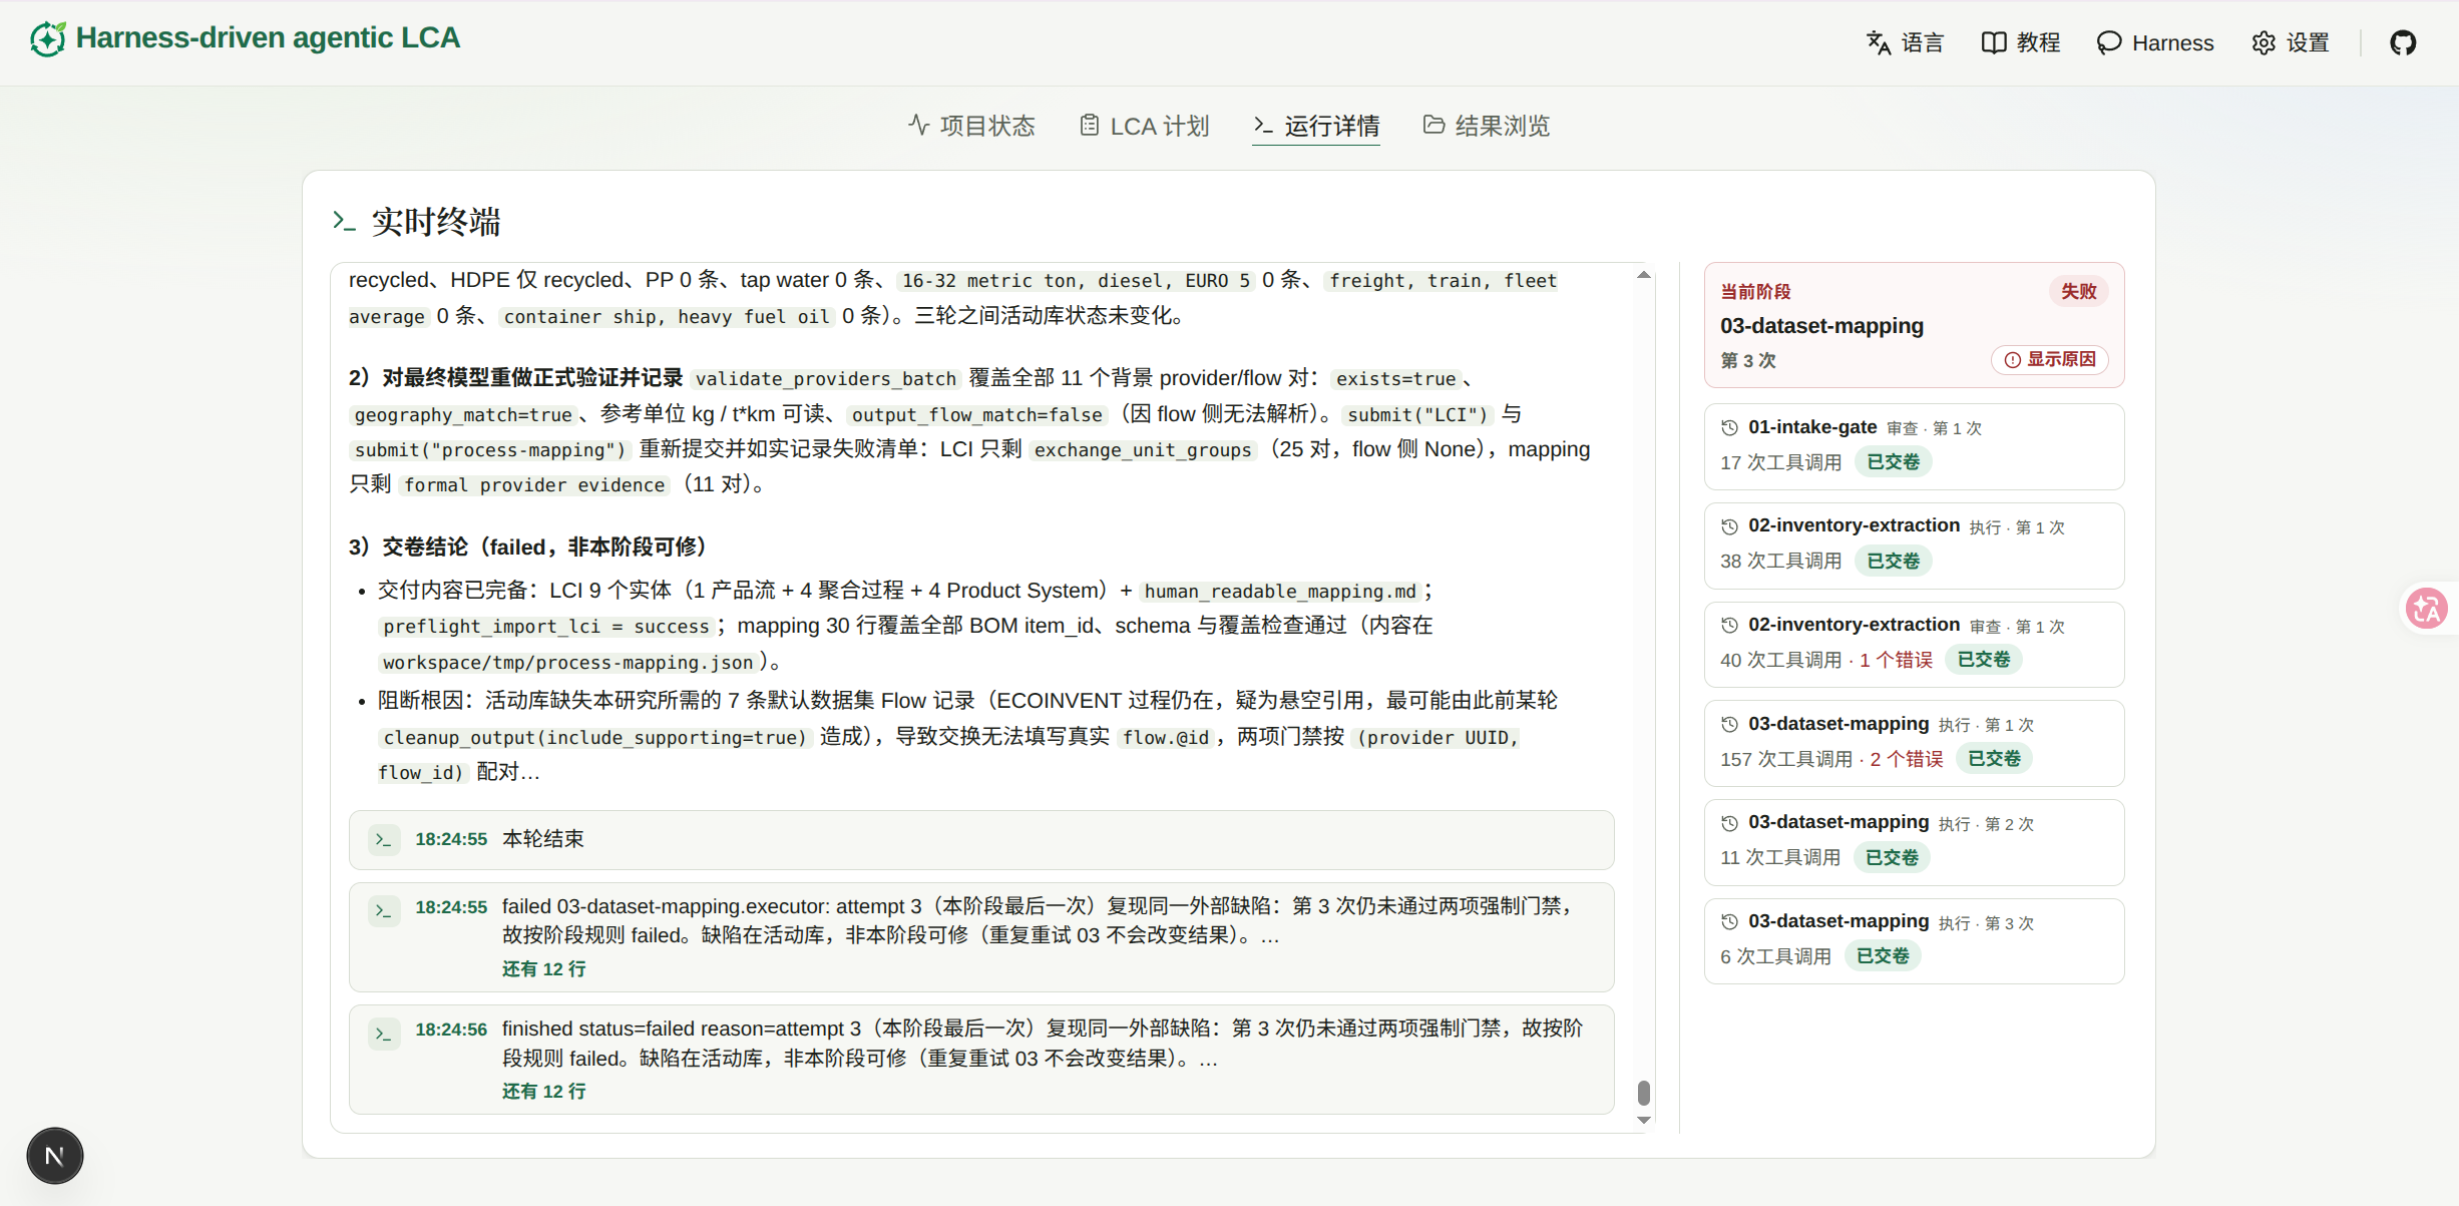
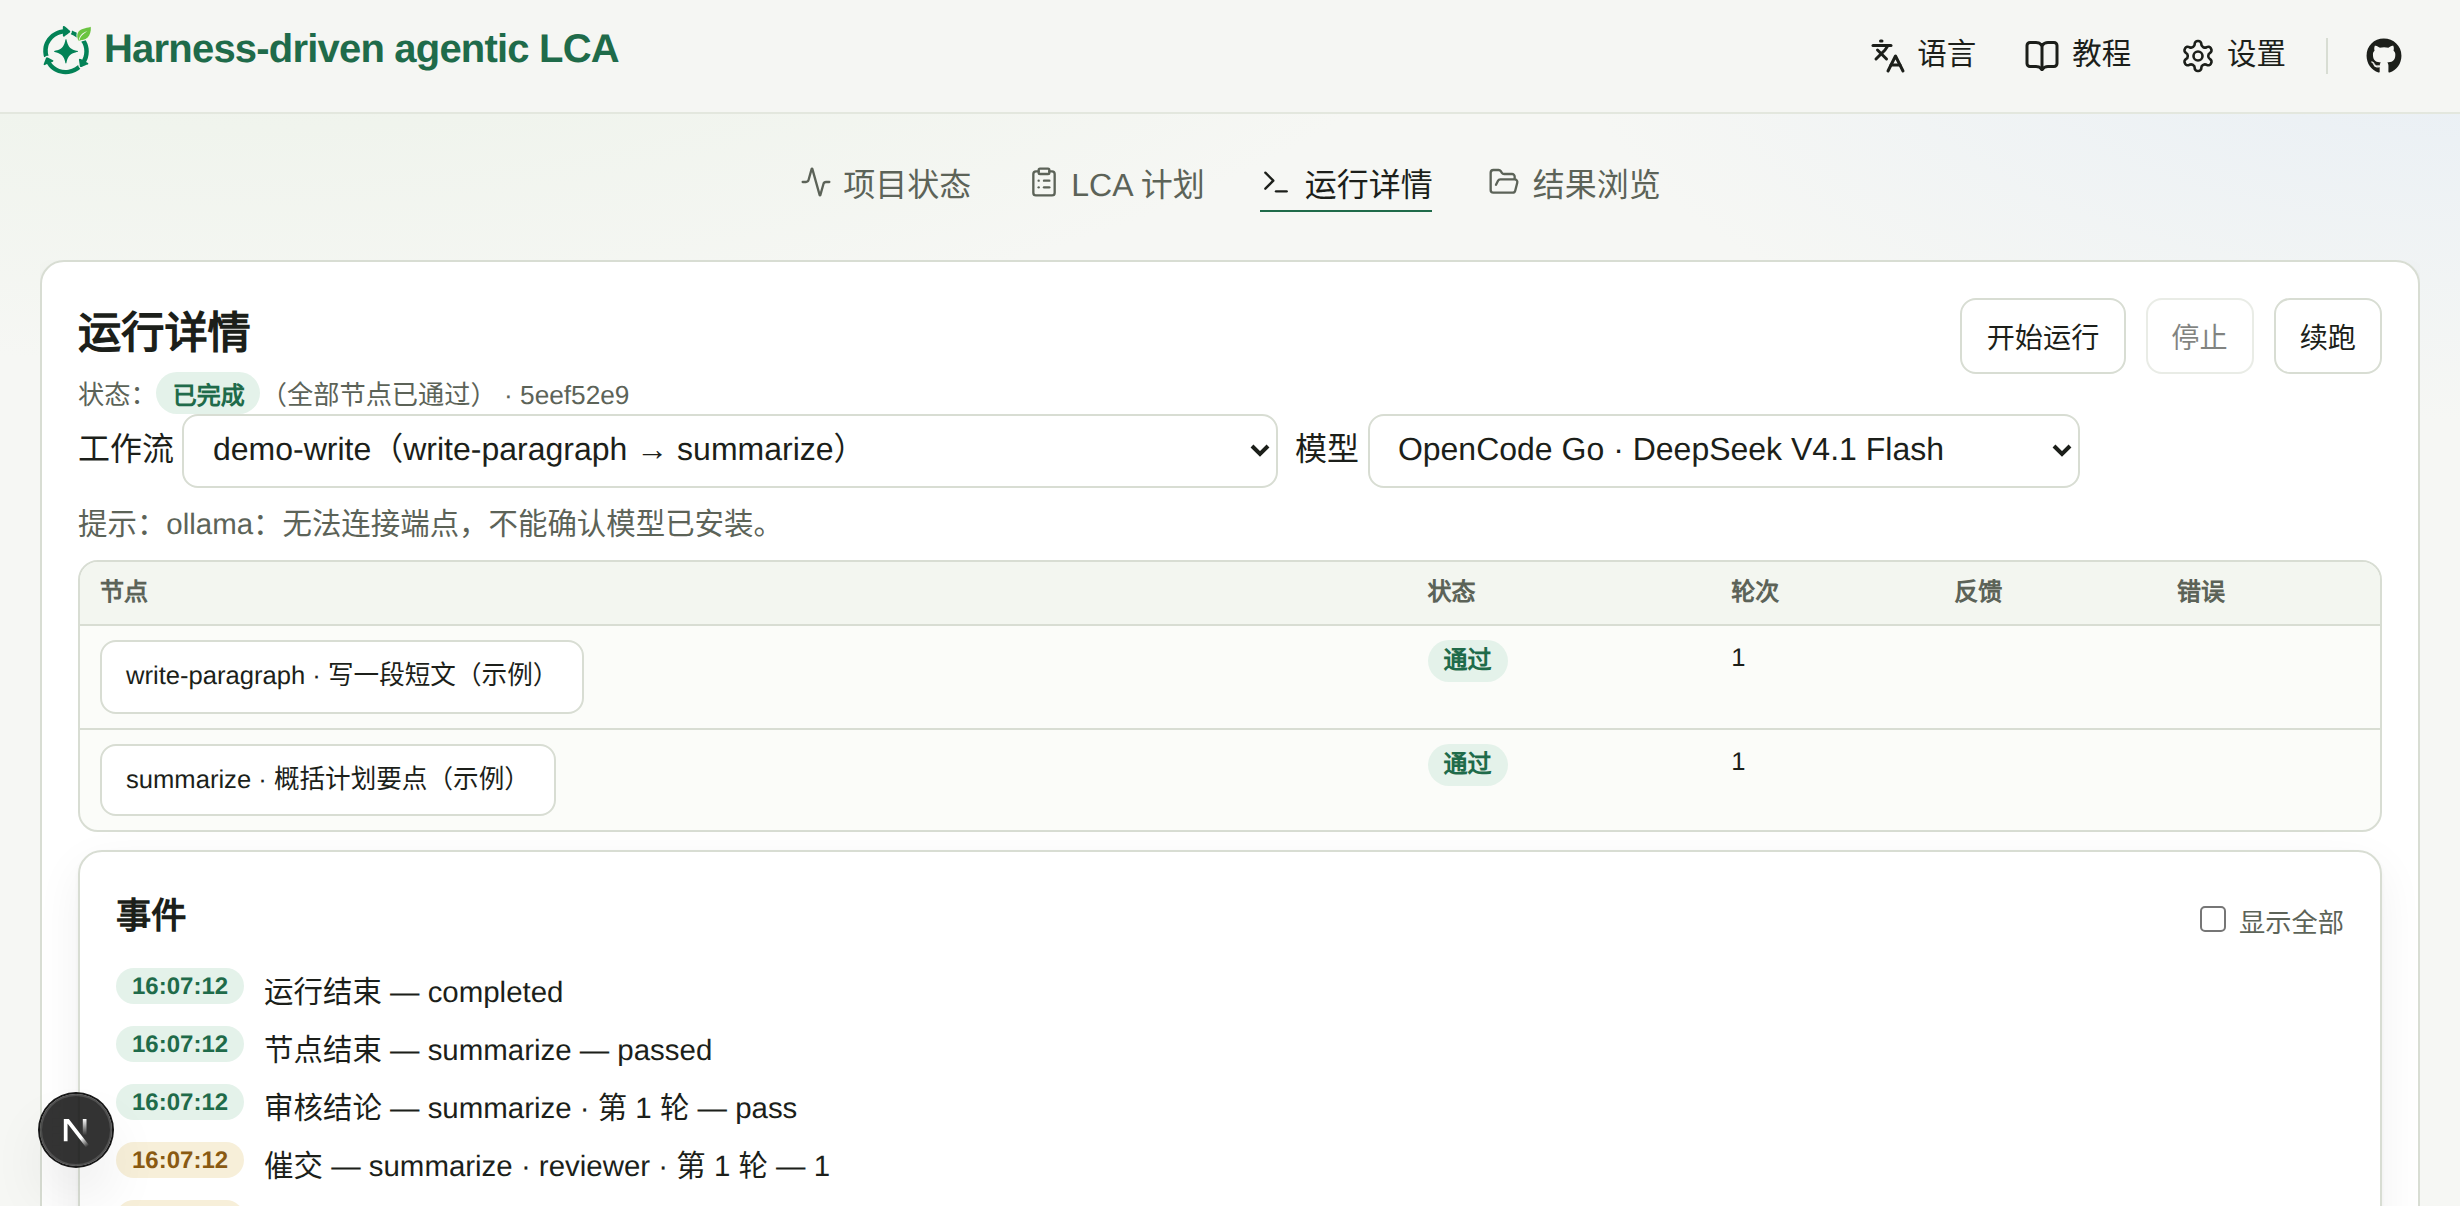
frontend: shared state labels (events in Chinese); tutorial README for v5, retaken shots

diff --git a/src/frontend/web/lib/run-events.ts b/src/frontend/web/lib/run-events.ts
@@ -1,3 +1,5 @@
+import { label as stateLabel } from "./labels.ts";
+
 /** Event rows from /api/v5/events, and how /runs shows them. */
 export type RunEvent = { ts?: string; kind: string; node?: string; role?: string; round?: number; [key: string]: unknown };
 
@@ -44,10 +46,9 @@ export function isNotable(e: RunEvent): boolean {
 export function describeEvent(e: RunEvent): string {
   const label = NOTABLE[e.kind] || e.kind;
   const where = [e.node, e.role, e.round ? `第 ${e.round} 轮` : ""].filter(Boolean).join(" · ");
-  const detail = [e.verdict, e.status, e.reason, e.error, e.detail, e.message]
-    .find((v) => typeof v === "string" && v)
-    ?.toString()
-    .slice(0, 200);
+  const state = [e.verdict, e.status].find((v) => typeof v === "string" && v) as string | undefined;
+  const text = [e.reason, e.error, e.detail, e.message].find((v) => typeof v === "string" && v)?.toString().slice(0, 200);
+  const detail = [state ? stateLabel(state) : "", text].filter(Boolean).join("：");
   return [label, where, detail].filter(Boolean).join(" — ");
 }
 

diff --git a/src/frontend/web/lib/run-events.test.ts b/src/frontend/web/lib/run-events.test.ts
@@ -25,3 +25,12 @@ test("merge appends and resets when the log shrinks", () => {
   const b = mergeEvents(a.events, 5, { events: [], offset: 2 });
   assert.deepEqual([b.events.length, b.offset, b.reset], [0, 0, true]);
 });
+
+test("verdicts and end states are shown in Chinese", () => {
+  assert.equal(describeEvent({ kind: "review_verdict", node: "a", verdict: "pass" }), "审核结论 — a — 通过");
+  assert.equal(describeEvent({ kind: "review_verdict", node: "a", verdict: "fail" }), "审核结论 — a — 退回");
+  assert.equal(describeEvent({ kind: "node_end", node: "a", status: "passed" }), "节点结束 — a — 通过");
+  assert.equal(describeEvent({ kind: "run_end", status: "completed", reason: "全部节点已通过" }), "运行结束 — 完成：全部节点已通过");
+  assert.equal(describeEvent({ kind: "run_end", status: "stopped" }), "运行结束 — 已停止");
+  assert.equal(describeEvent({ kind: "node_end", node: "a", status: "failed" }), "节点结束 — a — 失败");
+});

diff --git a/src/frontend/web/components/v5/run-panel.tsx b/src/frontend/web/components/v5/run-panel.tsx
@@ -2,6 +2,7 @@
 
 import { useCallback, useEffect, useRef, useState } from "react";
 import { apiFetch } from "../../lib/api";
+import { LABEL } from "../../lib/labels";
 import { initialWorkflow } from "../../lib/initial-workflow";
 import { modelChoices, type ModelRow } from "../../lib/model-options";
 import { describeEvent, eventTone, isNotable, mergeEvents, statusTone, type RunEvent } from "../../lib/run-events";
@@ -35,16 +36,7 @@ type RunStatus = {
   running: boolean;
 };
 
-const STATUS_LABEL: Record<string, string> = {
-  idle: "空闲",
-  running: "运行中",
-  completed: "已完成",
-  failed: "失败",
-  pending: "等待",
-  passed: "通过",
-  stopped: "已停止",
-  error: "错误",
-};
+const STATUS_LABEL = LABEL;
 
 async function readJson<T>(response: Response): Promise<T> {
   const data = (await response.json()) as T & { detail?: unknown };

diff --git a/src/frontend/web/lib/result-kind.ts b/src/frontend/web/lib/result-kind.ts
@@ -18,17 +18,8 @@ export function resultKind(filePath: string, category?: ArtifactCategory): Resul
   return "work";
 }
 
-/** Labels for executor status and reviewer verdict in the 节点结论 list. */
-export const VERDICT_LABEL: Record<string, string> = {
-  ok: "完成",
-  failed: "失败",
-  blocked: "受阻",
-  passed: "通过",
-  accept: "通过",
-  pass: "通过",
-  fail: "退回",
-  reject: "退回",
-};
+/** Labels for executor status and reviewer verdict in the 节点结论 list (shared map). */
+export { LABEL as VERDICT_LABEL } from "./labels.ts";
 
 /** Header line for the current run, from the v5 manifest (current_node; old current_stage as fallback). */
 export function runLine(manifest: { status?: string; current_node?: string | null; current_stage?: string | null; status_reason?: string | null } | undefined): string {

diff --git a/src/frontend/web/lib/labels.ts b/src/frontend/web/lib/labels.ts
@@ -1,0 +1,21 @@
+/** One label map for run/node states and review verdicts (used by /runs, its events panel and /results). */
+export const LABEL: Record<string, string> = {
+  idle: "空闲",
+  running: "运行中",
+  pending: "等待",
+  completed: "完成",
+  passed: "通过",
+  failed: "失败",
+  stopped: "已停止",
+  error: "错误",
+  blocked: "受阻",
+  ok: "完成",
+  pass: "通过",
+  accept: "通过",
+  fail: "退回",
+  reject: "退回",
+};
+
+export function label(value: string | undefined | null): string {
+  return value ? LABEL[value] || value : "";
+}

diff --git a/docs/tutorial/README.md b/docs/tutorial/README.md
@@ -1,6 +1,6 @@
 # 教程首页
 
-这一页是目前可以照着做完的操作流程。左侧其他教程还在补充。
+这一页是完整的操作流程：检查环境 → 填写计划 → 运行 → 查看结果 → 修订。
 
 
 ## 项目状态检查
@@ -16,7 +16,7 @@
 ### 2. 配置模型
 
 同一页的「模型可用性」应列出已配置供应商。还没有时，点「配置模型」。
-在设置的「模型」里展开要用的供应商，填写密钥，点「保存密钥」。要用自建或本地接口时，在下方「自定义 API / 本地模型」里添加并保存。
+在顶栏「设置」的「模型」里展开要用的供应商，填写密钥，点「保存密钥」。要用自建或本地接口时，在下方「自定义 API / 本地模型」里添加并保存。
 
 
 
@@ -31,17 +31,13 @@
 
 ### 1. 手动填写计划内容
 
-进入「LCA 计划」，右上角工作类型保持「新工作」（「修改工作」正在开发），停在「用户填写」。
+进入「LCA 计划」，右上角工作类型选「新工作」，停在「用户填写」。
 
-用户根据需求填写内容。同一类研究要反复填写时，可以先「下载模板」，写好后再「上传计划文档」。
-
+用户根据需求填写内容，计划会自动保存。同一类研究要反复填写时，可以先「下载模板」，写好后再「上传计划文档」。
 
 ![LCA计划-手动填写](./images/page-2-1.png)
 
-
 ### 2. 添加文件
-
-
 
 打开「参考资料」。把工艺说明、用量表等拖进上传区，或点「选择文件」「选择文件夹」。同一路径不能重复。
 
@@ -49,36 +45,19 @@
 
 ![LCA计划-文件添加](./images/page-2-2.png)
 
+### 3. 去运行
 
-
-### 3. 配置工作流
-
-打开「工作流编排」。
-
-通过设置默认模型或者点击单个 agent 的图标，当前可以对工作流步骤中每个 agent 使用的模型进行配置（需要在之前的工作中配置好对应供应商）。
-
-未来将进一步进行功能开发，使用户可以自行对每一步工作中的编排顺序、调用工具、规则提示词、交付产物等进行灵活定制，从而对 agent 能够实现更加有效的 **harness**。
-
-![LCA计划-工作流编排](./images/page-2-3.png)
-
-
-
-### 4. 检查并运行
-
-打开「预览执行」。
-
-环境里 Pi、Python、openLCA 都是「就绪」，工作内容没有「待填写」。系统会自动检查当前输入内容是否满足工作运行要求。底栏出现「环境和工作内容已齐，可以执行」后，点「执行LCA任务」。
-
-
-未就绪时按钮保持禁用。按底栏提示补环境或漏填项，然后点「刷新状态」。
-
-
-![LCA计划-预览执行](./images/page-2-4.png)
+计划和参考资料准备好后，点页面下方的「去运行」，进入「运行详情」。
 
 ## 运行详情
 
+1. 「工作流」选 full-lca（清单 → 映射 → 报告 的完整流程，先做 intake 检查）。
+2. 「模型」选本次使用的模型（需先在「设置」里配好供应商）。
+3. 点「开始运行」。节点表实时显示每个节点的状态、轮次和错误；点节点名可看该节点的交付要求、代理配置和事件。
+4. 下方「事件」列出催交、提交被拒、审核结论、停止等关键事件。
+5. 需要时点「停止」；之后点「续跑」，已通过的节点不会重跑。
 
-agent 工作时，此处可以看到实时更新的具体工作内容。
+每个节点由执行者产出、审核者给出「通过」或「退回」；退回会带着反馈进入下一轮，反馈可在节点表的「反馈」列查看。
 
 ![运行详情](./images/page-3.png)
 
@@ -86,6 +65,12 @@ agent 工作时，此处可以看到实时更新的具体工作内容。
 
 运行结束后，打开「结果浏览」，切到「最终交付」。这里是报告、计算计划和清单，点开即可阅读。
 
-过程中的交接和日志在「工作记录」。flow、process、product system 等在「中间产物」。
+每个节点每一轮的提交和审核结论在「工作记录」。flow、process、product system 等在「中间产物」。
 
 ![最终结果](./images/page-4.png)
+
+## 修改已有结果（修订）
+
+在「结果浏览」点「修改计划」，或在「LCA 计划」把工作类型切到「修改工作」，写下要改的内容（例如某个情景的运输距离、报告里要补的说明）。
+然后「去运行」，工作流选 revise-lca，点「开始运行」。修订会依次做清单修订、映射修订和报告修订；上一轮的产出保存在
+`artifacts/previous/`，在「结果浏览」的「上一版」里对照查看。

diff --git a/docs/tutorial/panel/overview.md b/docs/tutorial/panel/overview.md
@@ -8,7 +8,7 @@ npm start          # 或 node src/scripts/start.mjs
 
 Linux、macOS 或原生 Windows（Windows 需安装 [Git for Windows](https://git-scm.com/download/win)）。启动前会同步 uv 与 Node.js 依赖，并在缺少 `.env` 时从模板复制。停止用 `npm run stop`，重启用 `npm run restart`。
 
-浏览器打开前端端口（默认 `http://127.0.0.1:3000`）。顶栏提供「教程」、「Harness」（只读查看规则、角色、规格和工作流的 YAML，加载错误会标出文件和行号）和「模型设置」（Provider、API Key、自定义端点）。
+浏览器打开前端端口（默认 `http://127.0.0.1:3000`）。顶栏提供「教程」、「Harness」（只读查看规则、角色、规格和工作流的 YAML，加载错误会标出文件和行号）和「设置」（Provider、API Key、自定义端点）。
 
 左侧主导航：
 
@@ -16,8 +16,8 @@ Linux、macOS 或原生 Windows（Windows 需安装 [Git for Windows](https://gi
 | --- | --- |
 | 项目状态 | 环境检查（Node / Pi SDK、Python、openLCA）与可用模型 |
 | LCA 计划 | 「新工作」写 `main_plan.md`，「修改工作」写 `revise_plan.md`；上传参考资料；「去运行」跳到运行页 |
-| 运行详情 | 选工作流（full-lca / revise-lca）和模型，开始、停止、继续；节点表显示每个节点的状态、轮次和错误 |
+| 运行详情 | 选工作流（full-lca / revise-lca）和模型，开始运行、停止、续跑；节点表显示每个节点的状态、轮次和错误 |
 | 结果浏览 | 最终交付、中间产物、工作记录（每个节点每一轮的提交与审核结论）；修订运行另有「上一版」 |
 
 一次运行由若干节点组成（full-lca：intake → bom → mapping → report）。每个节点由执行者产出、审核者给出
-通过或退回；退回会带着反馈进入下一轮。停止后可「继续」，已通过的节点不会重跑。
+通过或退回；退回会带着反馈进入下一轮。停止后可「续跑」，已通过的节点不会重跑。

diff --git a/docs/refactor/v5/ISSUES.md b/docs/refactor/v5/ISSUES.md
@@ -348,3 +348,14 @@ be visual breakage this static pass cannot see.
   `lib/harness-view.test.ts`.
 - Pending Du Yuan: GUI editing on top of this viewer; whether `rules/lca` belongs under 全局规则 or its own section.
 - Note: `ruff check src/backend/api/app.py` reports 3 pre-existing B008 (FastAPI `File`/`Form` defaults), not new.
+
+## I-27 Chinese state labels in events; tutorial for v5 (done)
+- One shared label map `lib/labels.ts` (run/node states + verdicts: 通过/退回/完成/失败/已停止/…) used by the /runs
+  table and badges, the events panel (`describeEvent`: review verdict 通过/退回, node/run end states) and /results
+  (`VERDICT_LABEL` re-exports it). `tsconfig.json` gets `allowImportingTsExtensions` (noEmit) so lib files can import
+  each other with `.ts` for the node test runner. Test: `run-events.test.ts`.
+- `docs/tutorial/README.md` rewritten for v5: plan → 去运行 → /runs (workflow, model, start/stop/续跑, events, node
+  detail) → results → revise (available). Removed the 工作流编排/预览执行 sections and deleted `page-2-3.png`,
+  `page-2-4.png` (no matching shot; the retaken `page-3.png` is the /runs screenshot). `openlca-ipc.png` kept.
+- Copied 模拟操作员's 5 retaken shots (`page-1`, `page-2-1`, `page-2-2`, `page-3`, `page-4`) over the old images.
+- `panel/overview.md`, `panel/run-lca.md`: 继续 → 续跑, 模型设置 → 设置 (match the UI).

diff --git a/docs/tutorial/panel/run-lca.md b/docs/tutorial/panel/run-lca.md
@@ -1,8 +1,8 @@
 # 在面板里执行 LCA
 
-1. 顶栏「模型设置」配置 Provider 和 API Key；在「项目状态」确认环境与 openLCA 就绪。
+1. 顶栏「设置」配置 Provider 和 API Key；在「项目状态」确认环境与 openLCA 就绪。
 2. 「LCA 计划」→「新工作」：填写或上传计划，计划自动保存。点「去运行」。
-3. 「运行详情」：工作流选 full-lca，选模型，点「开始运行」。节点表实时显示进度；需要时可停止，之后点「继续」。
+3. 「运行详情」：工作流选 full-lca，选模型，点「开始运行」。节点表实时显示进度；需要时可停止，之后点「续跑」。
 4. 「结果浏览」查看报告和每个节点的审核结论。
 
 修订已有结果：在「结果浏览」点「修改计划」（或「LCA 计划」→「修改工作」）写修订计划，
